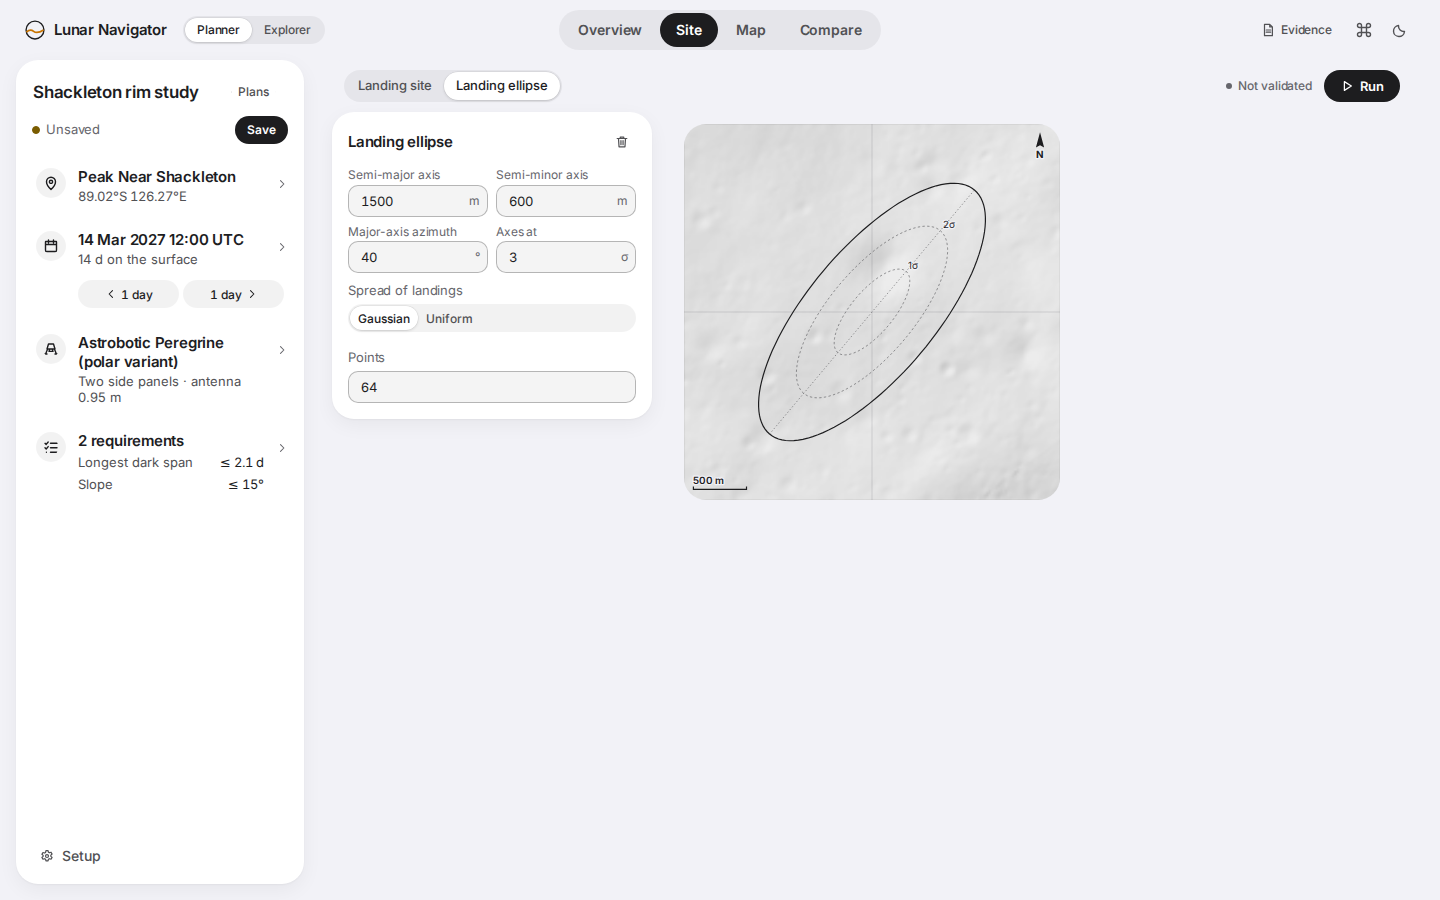
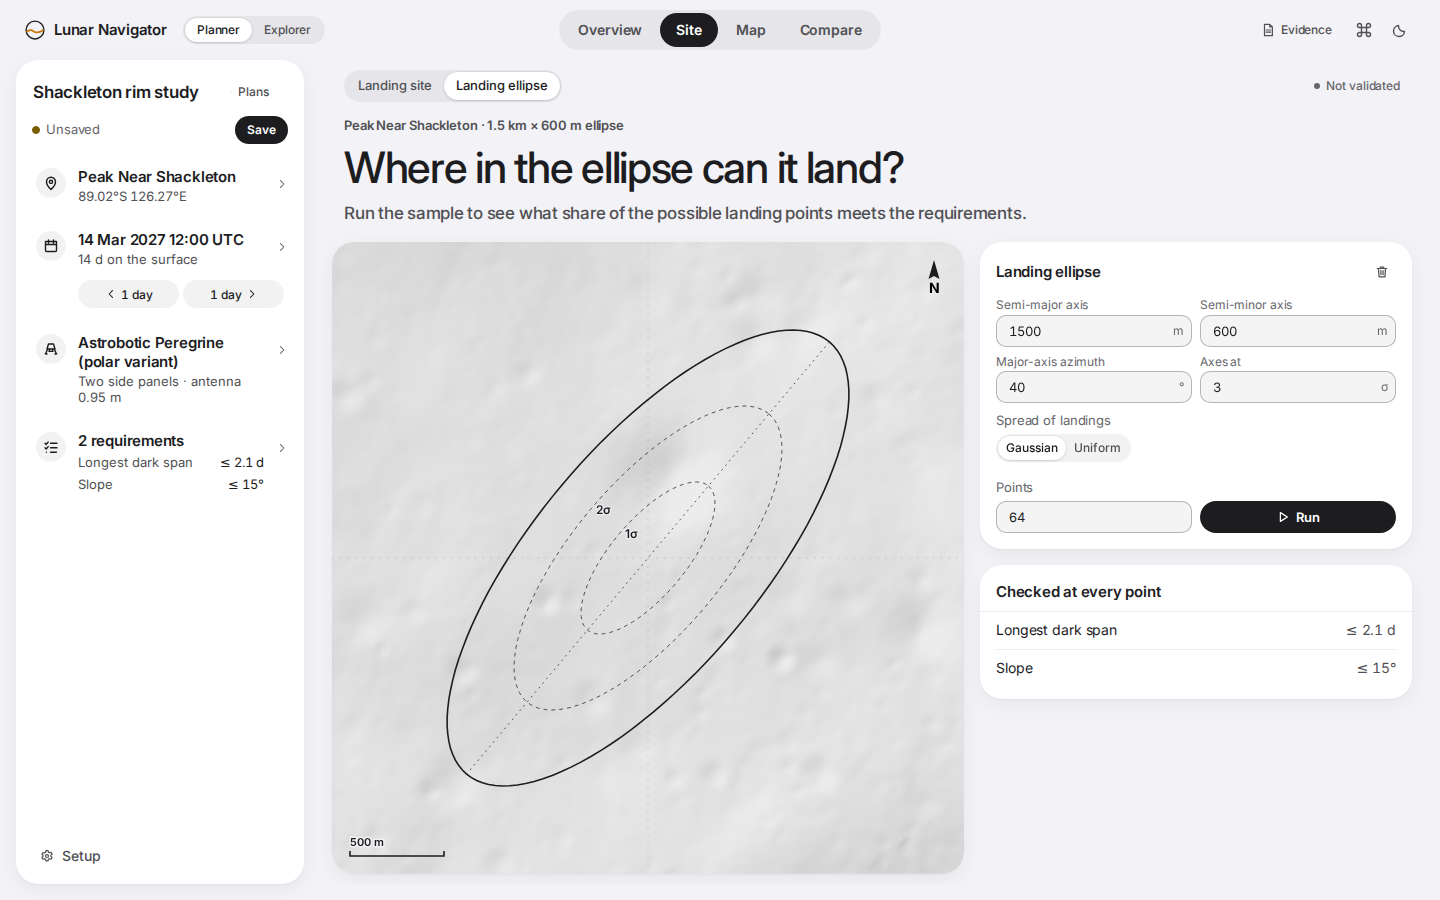
fix(ellipse): one fail colour for marks and bar, separate marker label anchors, shares in three columns, plot fits the viewport at 1024 px; screenshots

diff --git a/web/src/styles/ellipse.css b/web/src/styles/ellipse.css
@@ -25,14 +25,14 @@
 .el-outcome { display: flex; flex-direction: column; gap: var(--sp-3); padding-bottom: var(--sp-4); }
 .el-outcome .el-sec-title { padding-bottom: 0; }
 .el-outcome .el-stack { margin: 0 var(--sp-4); }
-.el-shares { display: flex; flex-wrap: wrap; gap: var(--sp-2) var(--sp-5); margin: 0; padding: 0 var(--sp-4); }
-.el-share { display: flex; align-items: baseline; gap: var(--sp-1-5); min-width: 0; }
+.el-shares { display: grid; grid-template-columns: repeat(auto-fit, minmax(0, 1fr)); gap: var(--sp-3); margin: 0; padding: 0 var(--sp-4); }
+.el-share { display: flex; flex-direction: column; align-items: flex-start; gap: 2px; min-width: 0; }
 .el-share dt { display: flex; align-items: center; gap: var(--sp-1-5); font-size: var(--fs-sm); color: var(--text-2); }
 .el-share dt::before { content: ""; width: 8px; height: 8px; border-radius: 50%; background: var(--text-3); }
 .el-share[data-state="pass"] dt::before { background: var(--c-pass-fill); }
 .el-share[data-state="marginal"] dt::before { background: var(--c-marginal-fill); }
-.el-share[data-state="fail"] dt::before { background: var(--c-fail); }
-.el-share dd { margin: 0; font-size: var(--fs-lg); font-weight: var(--fw-semibold); letter-spacing: var(--tracking-tight); color: var(--text); }
+.el-share[data-state="fail"] dt::before { background: var(--c-fail-fill); }
+.el-share dd { margin: 0; font-size: 22px; font-weight: var(--fw-semibold); letter-spacing: var(--tracking-tight); color: var(--text); }
 .el-share dd span { margin-left: 1px; font-size: var(--fs-sm); font-weight: var(--fw-regular); letter-spacing: 0; color: var(--text-3); }
 .el-share[data-zero] dd { color: var(--text-3); }
 .el-share-se { font-size: var(--fs-xs); color: var(--text-3); }
@@ -40,7 +40,7 @@
 .el-seg { display: block; height: 100%; }
 .el-seg-pass { background: var(--c-pass-fill); }
 .el-seg-marginal { background: var(--c-marginal-fill); }
-.el-seg-fail { background: var(--c-fail); }
+.el-seg-fail { background: var(--c-fail-fill); }
 .el-seg-unknown { background: var(--text-3); }
 
 .el-head { display: flex; flex-direction: column; gap: var(--sp-1-5); padding: var(--sp-1) var(--sp-5) var(--sp-4); min-width: 0; }
@@ -66,7 +66,7 @@
 .el-glyph { font-size: var(--fs-sm); }
 .el-glyph-pass { color: var(--c-pass-fill); }
 .el-glyph-marginal { color: var(--c-marginal-fill); }
-.el-glyph-fail { color: var(--c-fail); }
+.el-glyph-fail { color: var(--c-fail-fill); }
 .el-glyph-unknown { color: var(--text-2); }
 
 .el-plot { display: block; width: 100%; height: auto; border: 0; font-family: var(--font-ui); }
@@ -77,12 +77,12 @@
 .el-ring { fill: none; stroke: var(--text-2); stroke-width: calc(1px * var(--k, 1)); stroke-dasharray: 4 4; }
 .el-axis { fill: none; stroke: var(--text-2); stroke-width: calc(1px * var(--k, 1)); stroke-dasharray: 1 5; stroke-linecap: round; }
 .el-label, .el-mark-text, .el-scale text { fill: var(--text); font-size: calc(11px * var(--k, 1)); paint-order: stroke; stroke: var(--bg); stroke-opacity: 0.9; stroke-width: calc(3px * var(--k, 1)); stroke-linejoin: round; }
-.el-label { stroke-opacity: 0.6; stroke-width: calc(2.5px * var(--k, 1)); }
+.el-label { font-size: calc(12px * var(--k, 1)); font-weight: 600; stroke-width: calc(2.5px * var(--k, 1)); stroke-opacity: 0.75; }
 .el-north text { text-anchor: middle; font-weight: 700; }
 .el-mark-text { font-size: calc(12px * var(--k, 1)); font-weight: 600; stroke-opacity: 1; stroke-width: calc(4px * var(--k, 1)); }
 .el-mark-halo { fill: none; stroke: var(--bg); stroke-opacity: 0.85; stroke-width: calc(5px * var(--k, 1)); }
-.el-plot.has-sel .el-pts { opacity: 0.45; }
-.el-plot.has-sel .el-mark:not(.is-on) { opacity: 0.5; }
+.el-plot.has-sel .el-pts { opacity: 0.7; }
+.el-plot.has-sel .el-mark:not(.is-on) { opacity: 0.75; }
 .el-mark { transition: opacity var(--dur) var(--ease); }
 .el-pts { transition: opacity var(--dur) var(--ease); }
 
@@ -91,7 +91,9 @@
 .el-shape { fill: none; stroke-linecap: round; stroke-linejoin: round; }
 .el-pts-pass .el-shape { stroke: var(--c-pass-fill); }
 .el-pts-marginal .el-shape { stroke: var(--c-marginal-fill); fill: var(--c-marginal-fill); }
-.el-pts-fail .el-shape { stroke: var(--c-fail); stroke-opacity: 0.75; }
+.el-pts-fail .el-shape { stroke: var(--c-fail-fill); }
+[data-theme="light"] .el-pts-marginal .el-shape { stroke: #b38600; }
+[data-theme="light"] .el-head .verdict-word[data-tone="marginal"] { color: #b38600; }
 .el-pts-unknown .el-shape { stroke: var(--text-2); }
 
 .el-mark-worst .el-mark-ring { stroke-dasharray: 3 2; }
@@ -111,10 +113,11 @@
 .el-tocheck-list li .num { color: var(--text-2); white-space: nowrap; }
 .el-tocheck-none { margin: 0; padding: 0 var(--sp-4) var(--sp-4); font-size: var(--fs-sm); color: var(--text-3); }
 @media (min-width: 1700px) {
-  .el-rail { max-width: none; display: grid; grid-template-columns: minmax(320px, 400px) minmax(360px, 560px); align-items: start; }
+  .el-rail { max-width: none; }
+  .el-ellipse-fields { grid-template-columns: repeat(4, minmax(0, 1fr)); }
 }
 @media (max-width: 1180px) {
   .el-body { grid-template-columns: minmax(0, 1fr); }
-  .el-plotcol { position: relative; width: min(100%, calc(100vh - 200px)); }
+  .el-plotcol { position: relative; width: min(100%, calc(100vh - 290px)); }
   .el-rail { max-width: none; display: grid; grid-template-columns: minmax(0, 1fr) minmax(0, 1fr); align-items: start; }
 }

diff --git a/web/src/workspaces/ellipse/EllipsePlot.tsx b/web/src/workspaces/ellipse/EllipsePlot.tsx
@@ -128,7 +128,7 @@ export function EllipsePlot({ ellipse, samples, refs, backdrop, showSamples, sel
               <circle cx={x} cy={y} r={(on ? 12 : 9) * k} className="el-mark-halo" />
               <circle cx={x} cy={y} r={(on ? 12 : 9) * k} className="el-mark-ring" />
               {m.id === "centre" && <path className="el-mark-plus" d={`M${x - 5 * k} ${y}H${x + 5 * k}M${x} ${y - 5 * k}V${y + 5 * k}`} />}
-              <text className="el-mark-text" x={x + 13 * k} y={y - 9 * k}>
+              <text className="el-mark-text" textAnchor={m.id === "centre" ? "end" : "start"} x={x + (m.id === "centre" ? -13 : 13) * k} y={y + (m.id === "best" ? 20 : -9) * k}>
                 {m.label}
               </text>
             </g>

diff --git a/web/src/styles/tokens.css b/web/src/styles/tokens.css
@@ -127,6 +127,7 @@
   --c-power: #c7e86d;
   --c-toggle: #32d74b;
   --c-pass-fill: #30d158;
+  --c-fail-fill: #ff5a4f;
   --c-marginal-fill: #ffd60a;
   --c-sun-fill: #ff9f0a;
   --c-earth-fill: #0a84ff;
@@ -203,6 +204,7 @@
   --c-power: #5c7f00;
   --c-toggle: #34c759;
   --c-pass-fill: #34c759;
+  --c-fail-fill: #ff3b30;
   --c-marginal-fill: #ffcc00;
   --c-sun-fill: #ff9500;
   --c-earth-fill: #007aff;

diff --git a/web/src/workspaces/ellipse/EllipseWorkspace.tsx b/web/src/workspaces/ellipse/EllipseWorkspace.tsx
@@ -179,7 +179,6 @@ function EllipseHeadline({ result }: { result: EllipseResult | null }) {
       <p className="site-headline-note">
         Worst point {marginText(worst)}
         {limit ? ` on ${limit.toLowerCase()}` : ""}
-        {marginal > 0.0005 ? ` · ${Math.max(1, Math.round(marginal * 100))}% marginal` : ""}
       </p>
     </>
   );
